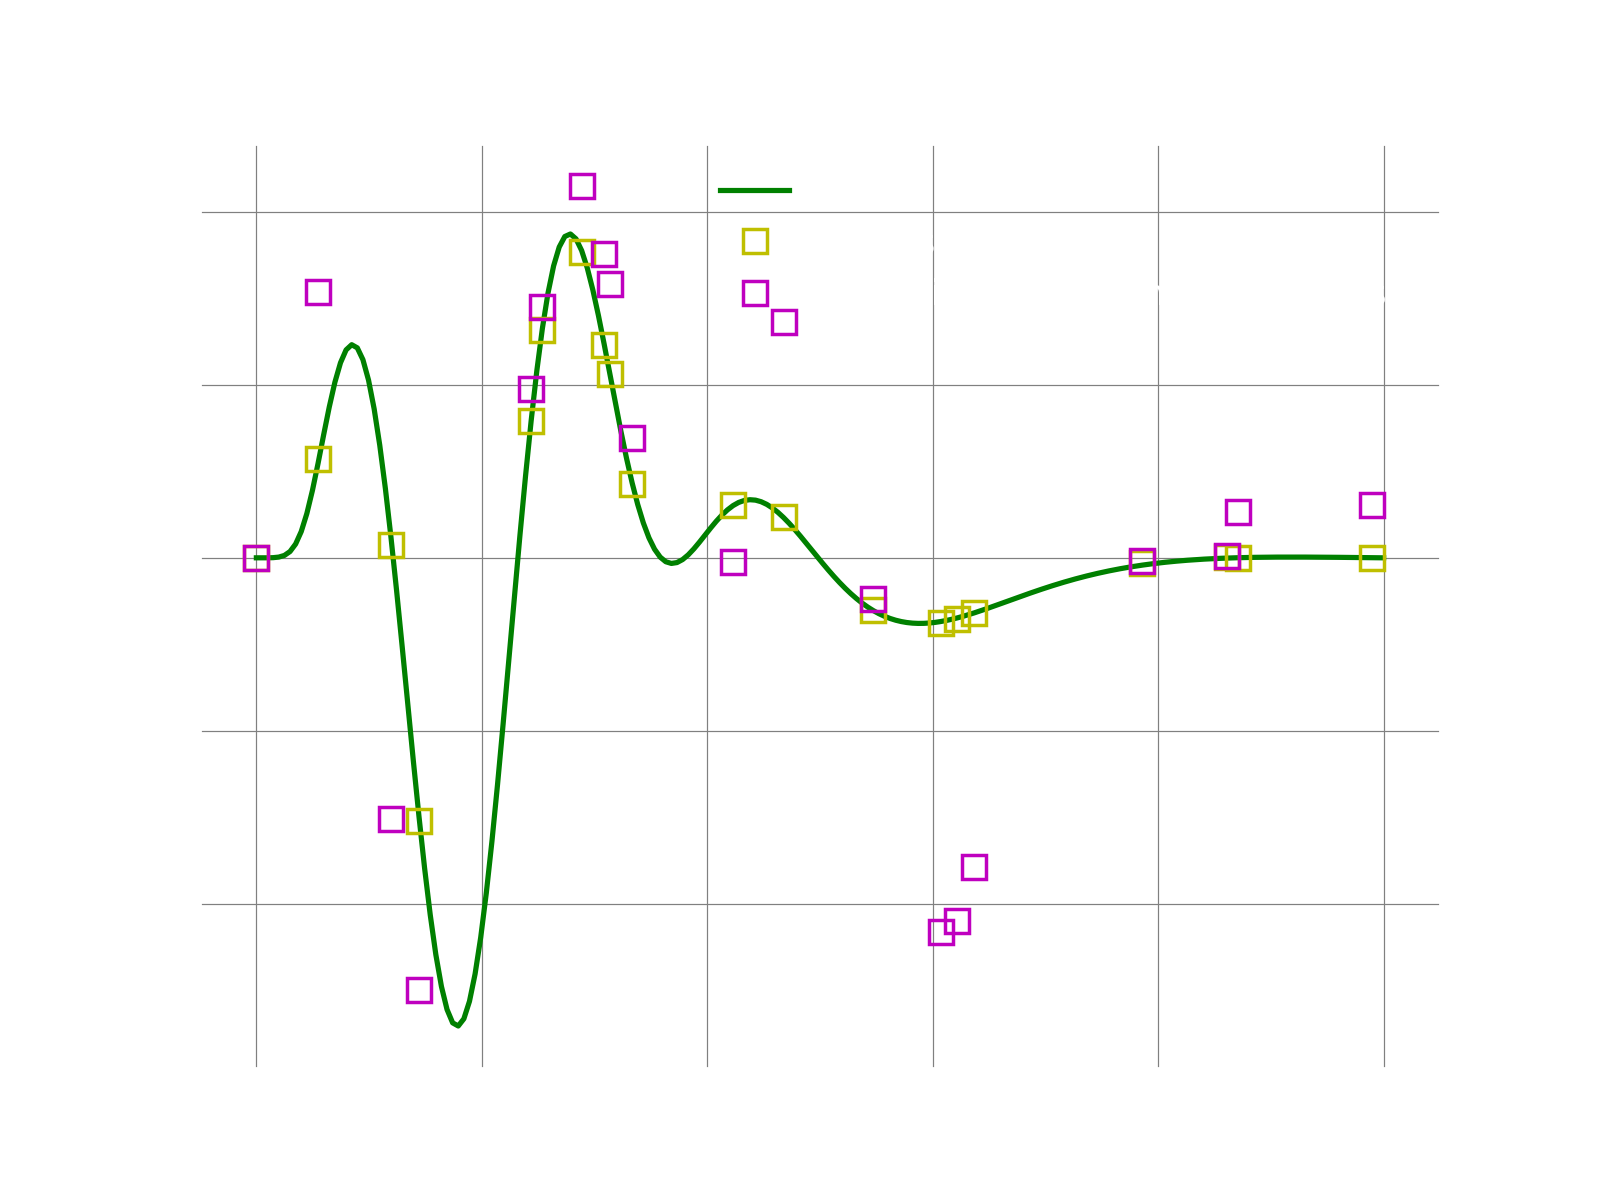
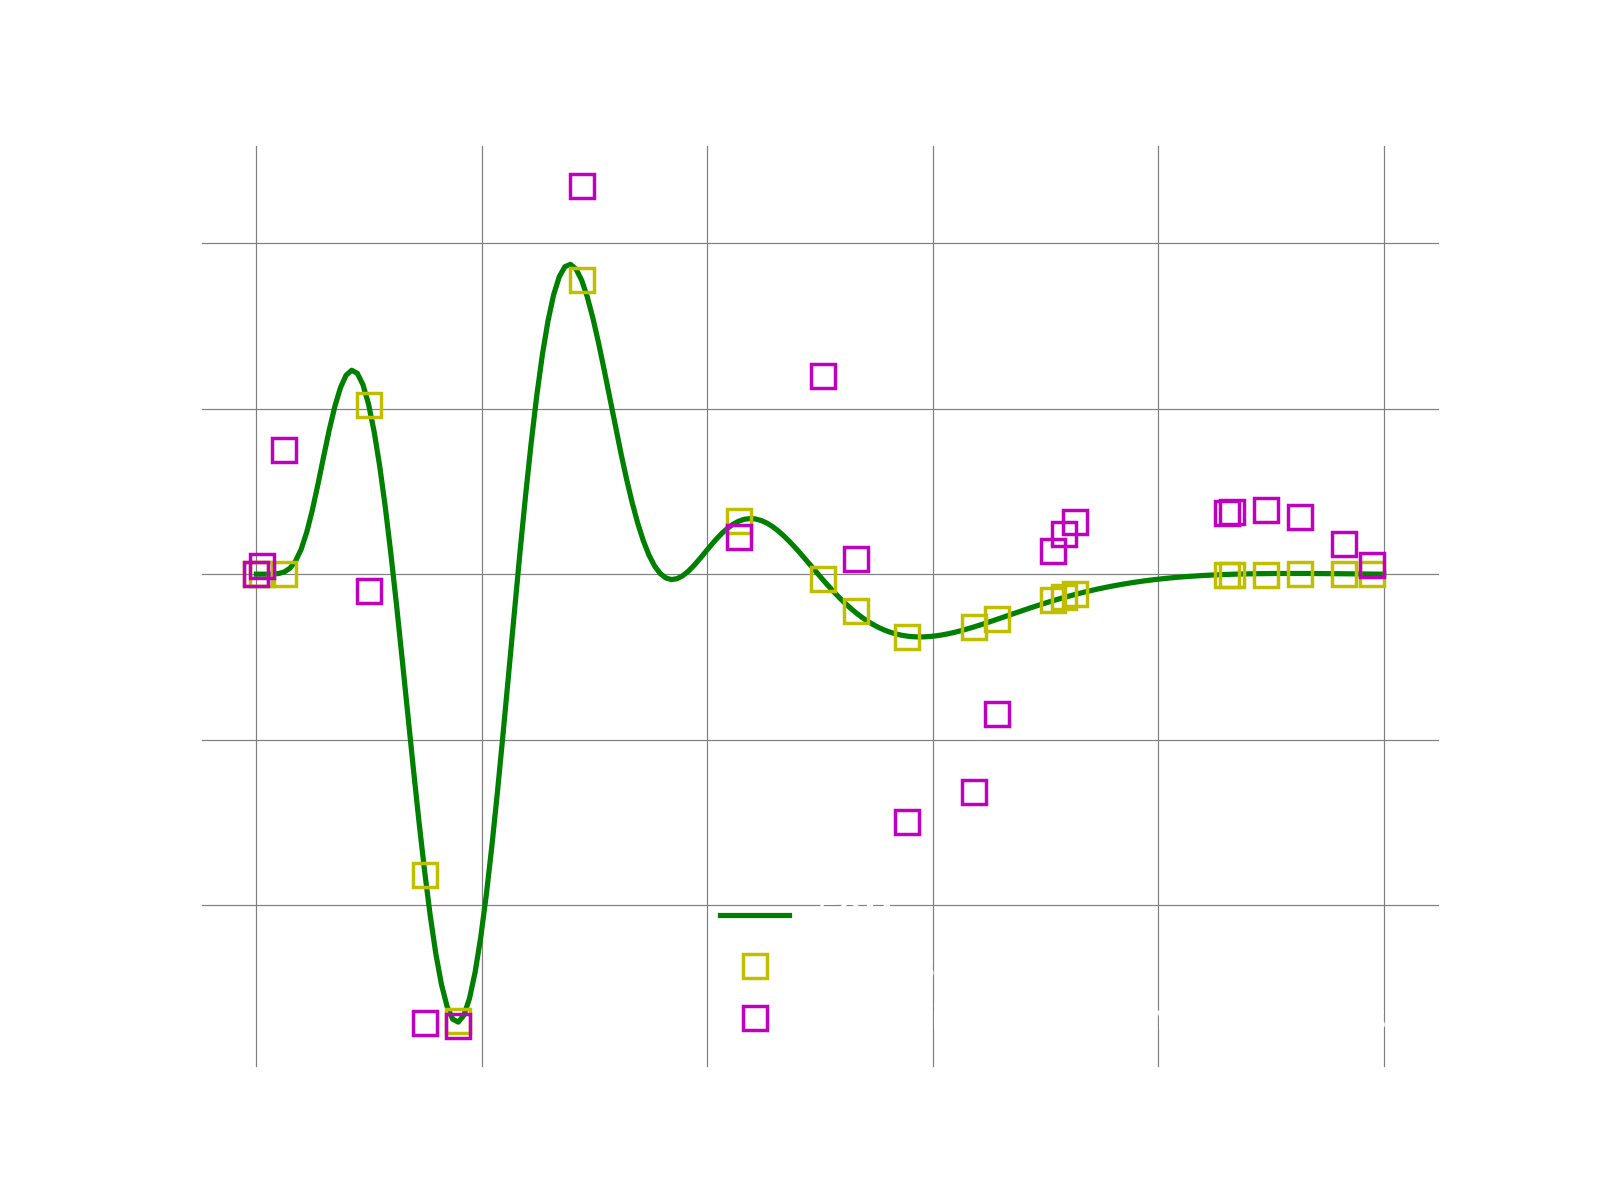
updating website and demos

diff --git a/docs/html/md_pages_demos_demo3.html b/docs/html/md_pages_demos_demo3.html
@@ -91,10 +91,7 @@
   <span class="n">romNumberOfSteps</span> <span class="o">=</span> <span class="nb">int</span><span class="p">(</span><span class="n">finalTime</span><span class="o">/</span><span class="n">romTimeStepSize</span><span class="p">)</span>
   <span class="n">approximatedState</span> <span class="o">=</span> <span class="n">runLspg</span><span class="p">(</span><span class="n">fomObj</span><span class="p">,</span> <span class="n">romTimeStepSize</span><span class="p">,</span> <span class="n">romNumberOfSteps</span><span class="p">,</span> <span class="n">myNonLinearMapper</span><span class="p">)</span>
 
-  <span class="c1"># compute l2-error between fom and approximate state</span>
-  <span class="n">fomNorm</span> <span class="o">=</span> <span class="n">linalg</span><span class="o">.</span><span class="n">norm</span><span class="p">(</span><span class="n">fomFinalState</span><span class="p">)</span>
-  <span class="n">err</span> <span class="o">=</span> <span class="n">linalg</span><span class="o">.</span><span class="n">norm</span><span class="p">(</span><span class="n">fomFinalState</span><span class="o">-</span><span class="n">approximatedState</span><span class="p">)</span>
-  <span class="nb">print</span><span class="p">(</span><span class="s2">&quot;Final state relative l2 error: </span><span class="si">{}</span><span class="s2">&quot;</span><span class="o">.</span><span class="n">format</span><span class="p">(</span><span class="n">err</span><span class="o">/</span><span class="n">fomNorm</span><span class="p">))</span></pre><section id="autotoc_md18"><h3><a href="#autotoc_md18">1. Run FOM and collect snapshots</a></h3><p>This step is the same as described <a href="https://pressio.github.io/pressio4py/html/md_pages_demos_demo1.html">here</a>,</p></section><section id="autotoc_md19"><h3><a href="#autotoc_md19">2. Setup and train the nonlinear kPCA mapper</a></h3><p>It is important to note that while the mapper class below has the API required by pressio4py, it can encapsulate any arbitrary mapping function. In this case we show how to create a kPCA-based representation, but one can use, e.g., autoencoder, and any other types of mapping. This is how we enable support for testing various methods.</p><pre class="m-code"><span class="k">class</span> <span class="nc">MyMapperKPCA</span><span class="p">:</span>
+  <span class="c1"># compute l2-error between fom and approximate state</span></pre><section id="autotoc_md18"><h3><a href="#autotoc_md18">1. Run FOM and collect snapshots</a></h3><p>This step is the same as described <a href="https://pressio.github.io/pressio4py/html/md_pages_demos_demo1.html">here</a>,</p></section><section id="autotoc_md19"><h3><a href="#autotoc_md19">2. Setup and train the nonlinear kPCA mapper</a></h3><p>It is important to note that while the mapper class below has the API required by pressio4py, it can encapsulate any arbitrary mapping function. In this case we show how to create a kPCA-based representation, but one can use, e.g., autoencoder, and any other types of mapping. This is how we enable support for testing various methods.</p><pre class="m-code"><span class="k">class</span> <span class="nc">MyMapperKPCA</span><span class="p">:</span>
   <span class="k">def</span> <span class="fm">__init__</span><span class="p">(</span><span class="bp">self</span><span class="p">,</span> <span class="n">snapshots</span><span class="p">,</span> <span class="n">numModes</span><span class="p">):</span>
     <span class="bp">self</span><span class="o">.</span><span class="n">transformer_</span> <span class="o">=</span> <span class="n">skd</span><span class="o">.</span><span class="n">KernelPCA</span><span class="p">(</span><span class="n">n_components</span><span class="o">=</span><span class="n">numModes</span><span class="p">,</span>\
                                       <span class="n">kernel</span><span class="o">=</span><span class="s1">&#39;poly&#39;</span><span class="p">,</span>

diff --git a/docs/html/md_pages_demos_demo5.html b/docs/html/md_pages_demos_demo5.html
@@ -99,10 +99,10 @@
   <span class="c1"># to &quot;mask&quot; the operators to compute the sample mesh version.</span>
   <span class="c1"># In this test, the meshSize = 200. Our sample mesh includes</span>
   <span class="c1"># the two end points since those contain the boundary conditions,</span>
-  <span class="c1"># and 18 randomly selected grid points inside the domain.</span>
+  <span class="c1"># and 20 randomly selected grid points inside the domain.</span>
   <span class="c1"># So effectively we use 1/10 of the full mesh.</span>
-  <span class="n">random</span><span class="o">.</span><span class="n">seed</span><span class="p">(</span><span class="mi">26123</span><span class="p">)</span>
-  <span class="n">sampleMeshSize</span> <span class="o">=</span> <span class="mi">18</span>
+  <span class="n">random</span><span class="o">.</span><span class="n">seed</span><span class="p">(</span><span class="mi">22123</span><span class="p">)</span>
+  <span class="n">sampleMeshSize</span> <span class="o">=</span> <span class="mi">20</span>
   <span class="n">sampleMeshIndices</span> <span class="o">=</span> <span class="n">random</span><span class="o">.</span><span class="n">sample</span><span class="p">(</span><span class="nb">range</span><span class="p">(</span><span class="mi">1</span><span class="p">,</span> <span class="mi">199</span><span class="p">),</span> <span class="n">sampleMeshSize</span><span class="p">)</span>
   <span class="n">sampleMeshIndices</span> <span class="o">=</span> <span class="n">np</span><span class="o">.</span><span class="n">append</span><span class="p">(</span><span class="n">sampleMeshIndices</span><span class="p">,</span> <span class="p">[</span><span class="mi">0</span><span class="p">,</span> <span class="mi">199</span><span class="p">])</span>
   <span class="c1"># sort for convenience, not necessarily needed</span>
@@ -154,10 +154,10 @@
 <span class="c1"># to &quot;mask&quot; the operators to compute the sample mesh version.</span>
 <span class="c1"># In this test, the meshSize = 200. Our sample mesh includes</span>
 <span class="c1"># the two end points since those contain the boundary conditions,</span>
-<span class="c1"># and 18 randomly selected grid points inside the domain.</span>
+<span class="c1"># and 20 randomly selected grid points inside the domain.</span>
 <span class="c1"># So effectively we use 1/10 of the full mesh.</span>
-<span class="n">random</span><span class="o">.</span><span class="n">seed</span><span class="p">(</span><span class="mi">26123</span><span class="p">)</span>
-<span class="n">sampleMeshSize</span> <span class="o">=</span> <span class="mi">18</span>
+<span class="n">random</span><span class="o">.</span><span class="n">seed</span><span class="p">(</span><span class="mi">22123</span><span class="p">)</span>
+<span class="n">sampleMeshSize</span> <span class="o">=</span> <span class="mi">20</span>
 <span class="n">sampleMeshIndices</span> <span class="o">=</span> <span class="n">random</span><span class="o">.</span><span class="n">sample</span><span class="p">(</span><span class="nb">range</span><span class="p">(</span><span class="mi">1</span><span class="p">,</span> <span class="mi">199</span><span class="p">),</span> <span class="n">sampleMeshSize</span><span class="p">)</span>
 <span class="n">sampleMeshIndices</span> <span class="o">=</span> <span class="n">np</span><span class="o">.</span><span class="n">append</span><span class="p">(</span><span class="n">sampleMeshIndices</span><span class="p">,</span> <span class="p">[</span><span class="mi">0</span><span class="p">,</span> <span class="mi">199</span><span class="p">])</span>
 <span class="c1"># sort for convenience, not necessarily needed</span>

diff --git a/docs/latex/md_pages_demos_demo5.tex b/docs/latex/md_pages_demos_demo5.tex
@@ -45,10 +45,10 @@ The main function of the demo is the following\+:
 \DoxyCodeLine{  \textcolor{comment}{\# to "{}mask"{} the operators to compute the sample mesh version.}}
 \DoxyCodeLine{  \textcolor{comment}{\# In this test, the meshSize = 200. Our sample mesh includes}}
 \DoxyCodeLine{  \textcolor{comment}{\# the two end points since those contain the boundary conditions,}}
-\DoxyCodeLine{  \textcolor{comment}{\# and 18 randomly selected grid points inside the domain.}}
+\DoxyCodeLine{  \textcolor{comment}{\# and 20 randomly selected grid points inside the domain.}}
 \DoxyCodeLine{  \textcolor{comment}{\# So effectively we use 1/10 of the full mesh.}}
-\DoxyCodeLine{  random.seed(26123)}
-\DoxyCodeLine{  sampleMeshSize = 18}
+\DoxyCodeLine{  random.seed(22123)}
+\DoxyCodeLine{  sampleMeshSize = 20}
 \DoxyCodeLine{  sampleMeshIndices = random.sample(range(1, 199), sampleMeshSize)}
 \DoxyCodeLine{  sampleMeshIndices = np.append(sampleMeshIndices, [0, 199])}
 \DoxyCodeLine{  \textcolor{comment}{\# sort for convenience, not necessarily needed}}
@@ -115,10 +115,10 @@ The main function of the demo is the following\+:
 \DoxyCodeLine{\textcolor{comment}{\# to "{}mask"{} the operators to compute the sample mesh version.}}
 \DoxyCodeLine{\textcolor{comment}{\# In this test, the meshSize = 200. Our sample mesh includes}}
 \DoxyCodeLine{\textcolor{comment}{\# the two end points since those contain the boundary conditions,}}
-\DoxyCodeLine{\textcolor{comment}{\# and 18 randomly selected grid points inside the domain.}}
+\DoxyCodeLine{\textcolor{comment}{\# and 20 randomly selected grid points inside the domain.}}
 \DoxyCodeLine{\textcolor{comment}{\# So effectively we use 1/10 of the full mesh.}}
-\DoxyCodeLine{random.seed(26123)}
-\DoxyCodeLine{sampleMeshSize = 18}
+\DoxyCodeLine{random.seed(22123)}
+\DoxyCodeLine{sampleMeshSize = 20}
 \DoxyCodeLine{sampleMeshIndices = random.sample(range(1, 199), sampleMeshSize)}
 \DoxyCodeLine{sampleMeshIndices = np.append(sampleMeshIndices, [0, 199])}
 \DoxyCodeLine{\textcolor{comment}{\# sort for convenience, not necessarily needed}}

diff --git a/demos/unsteady_masked_galerkin_vs_lspg_advdiff1d_pod/main.py b/demos/unsteady_masked_galerkin_vs_lspg_advdiff1d_pod/main.py
@@ -185,10 +185,10 @@ if __name__ == "__main__":
   # to "mask" the operators to compute the sample mesh version.
   # In this test, the meshSize = 200. Our sample mesh includes
   # the two end points since those contain the boundary conditions,
-  # and 18 randomly selected grid points inside the domain.
+  # and 20 randomly selected grid points inside the domain.
   # So effectively we use 1/10 of the full mesh.
-  random.seed(26123)
-  sampleMeshSize = 18
+  random.seed(22123)
+  sampleMeshSize = 20
   sampleMeshIndices = random.sample(range(1, 199), sampleMeshSize)
   sampleMeshIndices = np.append(sampleMeshIndices, [0, 199])
   # sort for convenience, not necessarily needed
@@ -239,7 +239,7 @@ if __name__ == "__main__":
           label='Galerkin solution on sample mesh')
   ax.set_ylabel("Solution")
   ax.set_xlabel("x-coordinate")
-  leg = plt.legend(fontsize=10, fancybox=True, framealpha=0, loc='upper right')
+  leg = plt.legend(fontsize=10, fancybox=True, framealpha=0, loc='lower right')
   ax.grid(True, linewidth=0.35, color='gray')
   #used to change color to text and axes
   edit_figure_for_web(ax, leg)
@@ -259,7 +259,7 @@ if __name__ == "__main__":
 
   ax1.set_ylabel("Solution")
   ax1.set_xlabel("x-coordinate")
-  leg = plt.legend(fontsize=10, fancybox=True, framealpha=0, loc='upper right')
+  leg = plt.legend(fontsize=10, fancybox=True, framealpha=0, loc='lower right')
   ax1.grid(True, linewidth=0.35, color='gray')
 
   #used to change color to text and axes

diff --git a/docs/latex/md_pages_demos_demo3.tex b/docs/latex/md_pages_demos_demo3.tex
@@ -33,9 +33,6 @@ The main function of the demo is the following\+:
 \DoxyCodeLine{  approximatedState = runLspg(fomObj, romTimeStepSize, romNumberOfSteps, myNonLinearMapper)}
 \DoxyCodeLine{}
 \DoxyCodeLine{  \textcolor{comment}{\# compute l2-\/error between fom and approximate state}}
-\DoxyCodeLine{  fomNorm = linalg.norm(fomFinalState)}
-\DoxyCodeLine{  err = linalg.norm(fomFinalState-\/approximatedState)}
-\DoxyCodeLine{  print(\textcolor{stringliteral}{"{}Final state relative l2 error: \{\}"{}}.format(err/fomNorm))}
 \end{DoxyCode}
 \hypertarget{md_pages_demos_demo3_autotoc_md18}{}\doxysubsection{1. Run F\+O\+M and collect snapshots}\label{md_pages_demos_demo3_autotoc_md18}
 This step is the same as described \href{https://pressio.github.io/pressio4py/html/md_pages_demos_demo1.html}{\texttt{ here}},\hypertarget{md_pages_demos_demo3_autotoc_md19}{}\doxysubsection{2. Setup and train the nonlinear k\+P\+C\+A mapper}\label{md_pages_demos_demo3_autotoc_md19}
